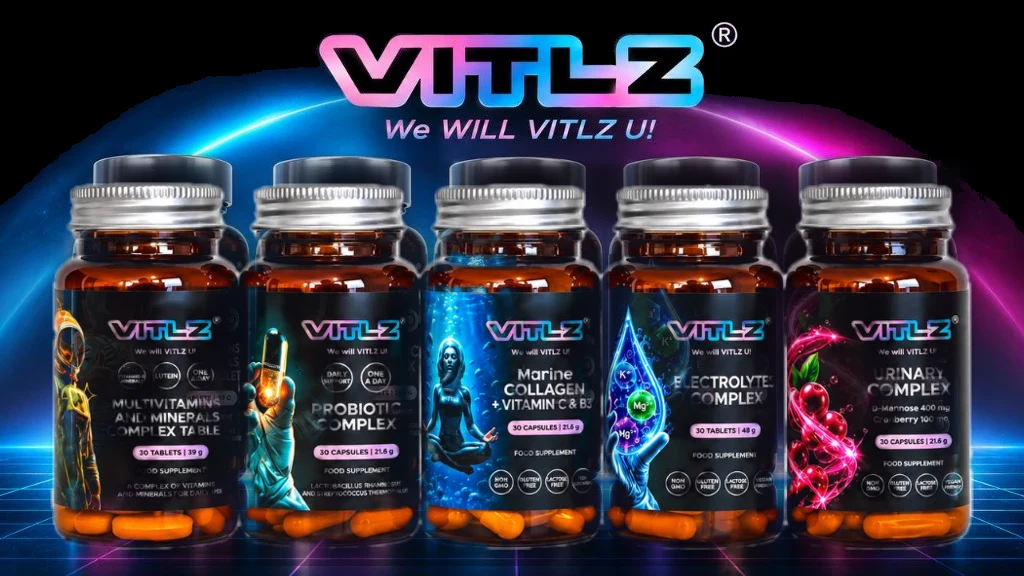
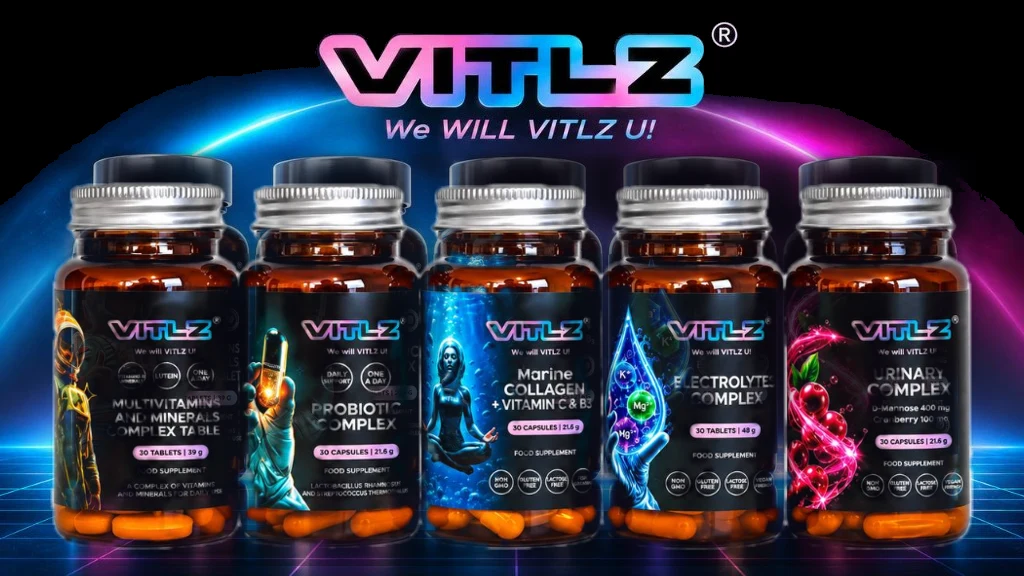
Refine hero composite: completely paint out old caps and silhouettes with pure space color.

diff --git a/index.html b/index.html
@@ -78,8 +78,8 @@
         <section id="home" class="hero-section retro-grid">
             <div class="hero-images will-animate">
                 <picture>
-                    <source srcset="images/hero-lineup.webp?v=20261117e" type="image/webp">
-                    <img src="images/hero-lineup.png?v=20261117e" alt="VITLZ formulas — We WILL VITLZ U!" class="hero-lineup" width="1024" height="576" loading="eager" />
+                    <source srcset="images/hero-lineup.webp?v=20261117f" type="image/webp">
+                    <img src="images/hero-lineup.png?v=20261117f" alt="VITLZ formulas — We WILL VITLZ U!" class="hero-lineup" width="1024" height="576" loading="eager" />
                 </picture>
             </div>
             <div class="container">
